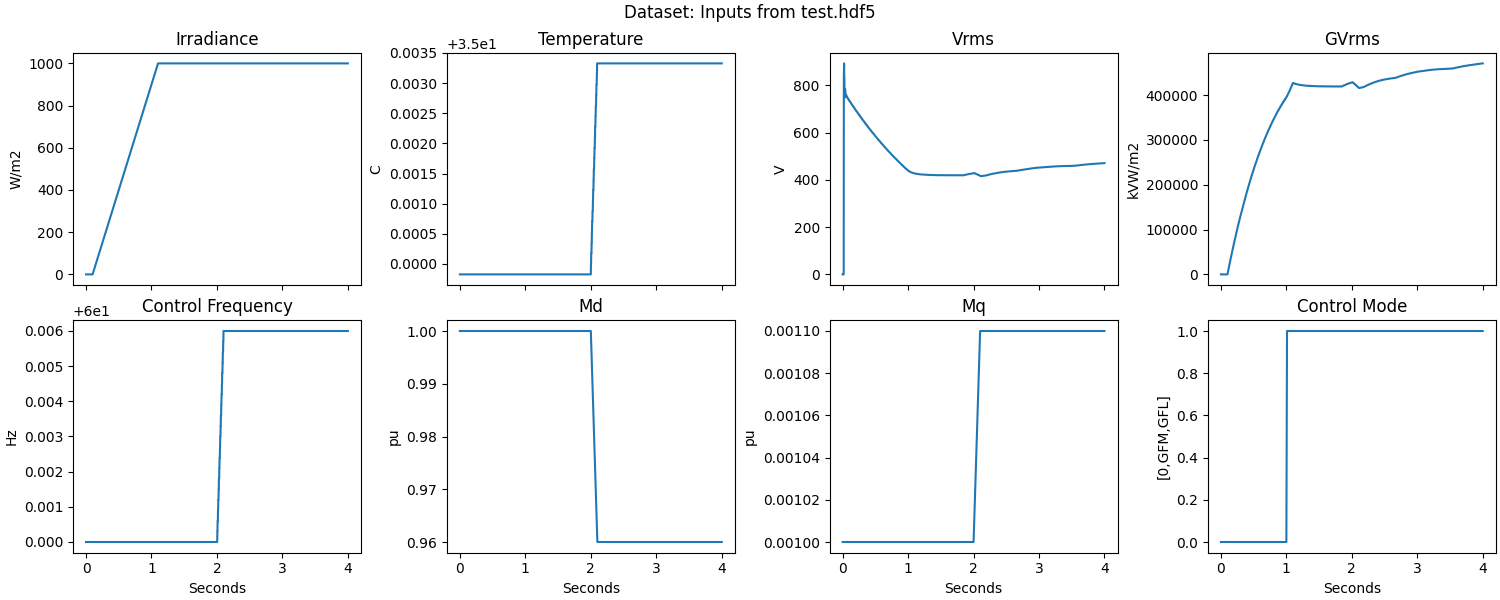
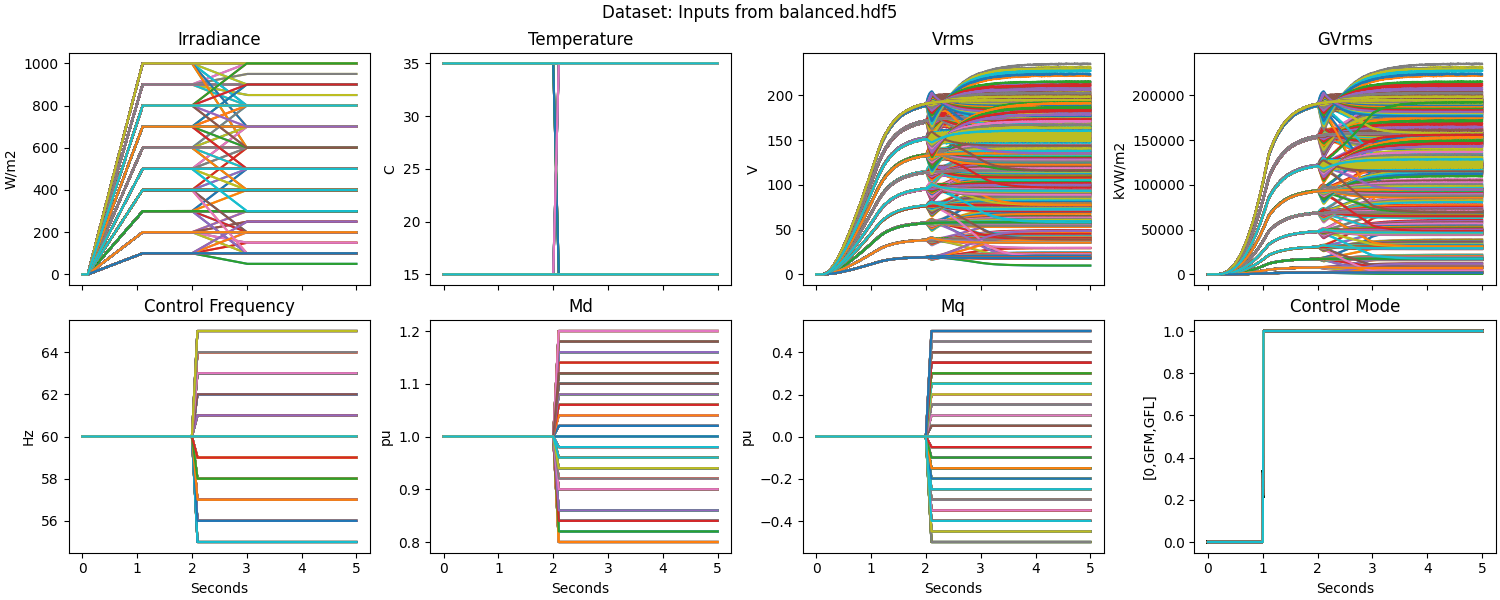
1500 balanced training cases, G ramp starts at 0.1 seconds

diff --git a/examples/simscape/xlsx_to_hdf5.py b/examples/simscape/xlsx_to_hdf5.py
@@ -1,6 +1,6 @@
 # copyright 2021-2022 Battelle Memorial Institute
 # reads a spreadsheet of Simscape output, plots channels and converts to HDF5
-#  arg1: input file name, format like case###.xlsx, default case500.xlsx
+#  arg1: input file name, format like case###.xlsx, default case500.xlsx, *.xlsx to glob
 #  arg2: output file name, default test.hdf5
 #  example: python xlsx_to_hdf5.py newcase.xlsx new.hdf5
 #
@@ -10,11 +10,16 @@
 # file uses the same schema as for COMTRADE analog channels, which
 # are compatible with HWPV training scripts.
 
+# this next line would save the Pandas Dataframe, which is not suited for HWPV fitting
+#  df.to_hdf(outputfile, key='Test', mode='w')
+#  df.plot(subplots=True)
+
 import sys
 import os
 import pandas as pd
 import h5py
 import matplotlib.pyplot as plt
+import glob
 
 plot_defs = [
   {'row':0, 'col':0, 'tags':['G'], 'title':'Irradiance', 'ylabel':'W/m2'},
@@ -46,31 +51,23 @@ def saveas_comtrade_channels (filename, groupname, df, mode='w'):
     grp.create_dataset (lbl, data=data, compression='gzip')
   f.close()
 
-if __name__ == '__main__':
-  inputfile = 'case500.xlsx'
-  outputfile = 'test.hdf5'
-  if len(sys.argv) > 1:
-    inputfile = sys.argv[1]
-    if len(sys.argv) > 2:
-      outputfile = sys.argv[2]
-
+def read_one_xlsx (inputfile, bSummarize=False):
+  casenumber = os.path.basename(inputfile).rstrip('.xlsx').lstrip('case')
+  if not bSummarize:
+    print ('Processing {:s} as case {:s}'.format(inputfile, casenumber))
   df = pd.read_excel (inputfile)
   df.set_index ('t', inplace=True)
-  df.info()
-  print ('Column                         Min           Max          Mean')
-  for lbl, data in df.iteritems():
-    print ('{:20s} {:13.5f} {:13.5f} {:13.5f}'.format (lbl, data.min(), data.max(), data.mean()))
+  if bSummarize:
+    df.info()
+    print ('Column                         Min           Max          Mean')
+    for lbl, data in df.iteritems():
+      print ('{:20s} {:13.5f} {:13.5f} {:13.5f}'.format (lbl, data.min(), data.max(), data.mean()))
+  return df, casenumber
 
-# this next line would save the Pandas Dataframe, which is not suited for HWPV fitting
-#  df.to_hdf(outputfile, key='Test', mode='w')
-#  df.plot(subplots=True)
-  
-  casenumber = inputfile.rstrip('.xlsx').lstrip('case')
-  saveas_comtrade_channels (outputfile, casenumber, df)
-
+def plot_dataframe (df, casenumber):
   plt.rcParams['savefig.directory'] = os.getcwd()
   fig, ax = plt.subplots (nrows, ncols, sharex = 'col', figsize=(18,8), constrained_layout=True)
-  fig.suptitle ('Simulation Results from {:s}'.format(inputfile))
+  fig.suptitle ('Simulation Results from Case {:s}'.format(casenumber))
   t = df.index
   for plot in plot_defs:
     plt_ax = ax[plot['row'], plot['col']]
@@ -80,6 +77,28 @@ if __name__ == '__main__':
     plt_ax.set_ylabel (plot['ylabel'])
     plt_ax.grid()
     plt_ax.legend (loc='best')
-  
   plt.show()
+  plt.close()
+
+if __name__ == '__main__':
+  inputfile = 'case500.xlsx'
+  outputfile = 'test.hdf5'
+  if len(sys.argv) > 1:
+    inputfile = sys.argv[1]
+    if len(sys.argv) > 2:
+      outputfile = sys.argv[2]
+
+  mode = 'w'
+  if '*' in inputfile:
+    files = glob.glob (inputfile)
+    print ('Writing {:d} xlsx files to {:s}'.format (len(files), outputfile))
+    for fname in files:
+      df, casenumber = read_one_xlsx (fname, bSummarize=False)
+      saveas_comtrade_channels (outputfile, casenumber, df, mode=mode)
+      mode = 'a'
+  else:
+    df, casenumber = read_one_xlsx (inputfile, bSummarize=True)
+    saveas_comtrade_channels (outputfile, casenumber, df, mode=mode)
+    plot_dataframe (df, casenumber)
+
 

diff --git a/examples/simscape/h5view.py b/examples/simscape/h5view.py
@@ -21,6 +21,7 @@ with h5py.File(fname, 'r') as f:
     print (' ', grp_name)
     for key in grp:
       print ('   ', key)
+    break
 
   dlen = grp['t'].len()
   t = np.zeros(dlen)
